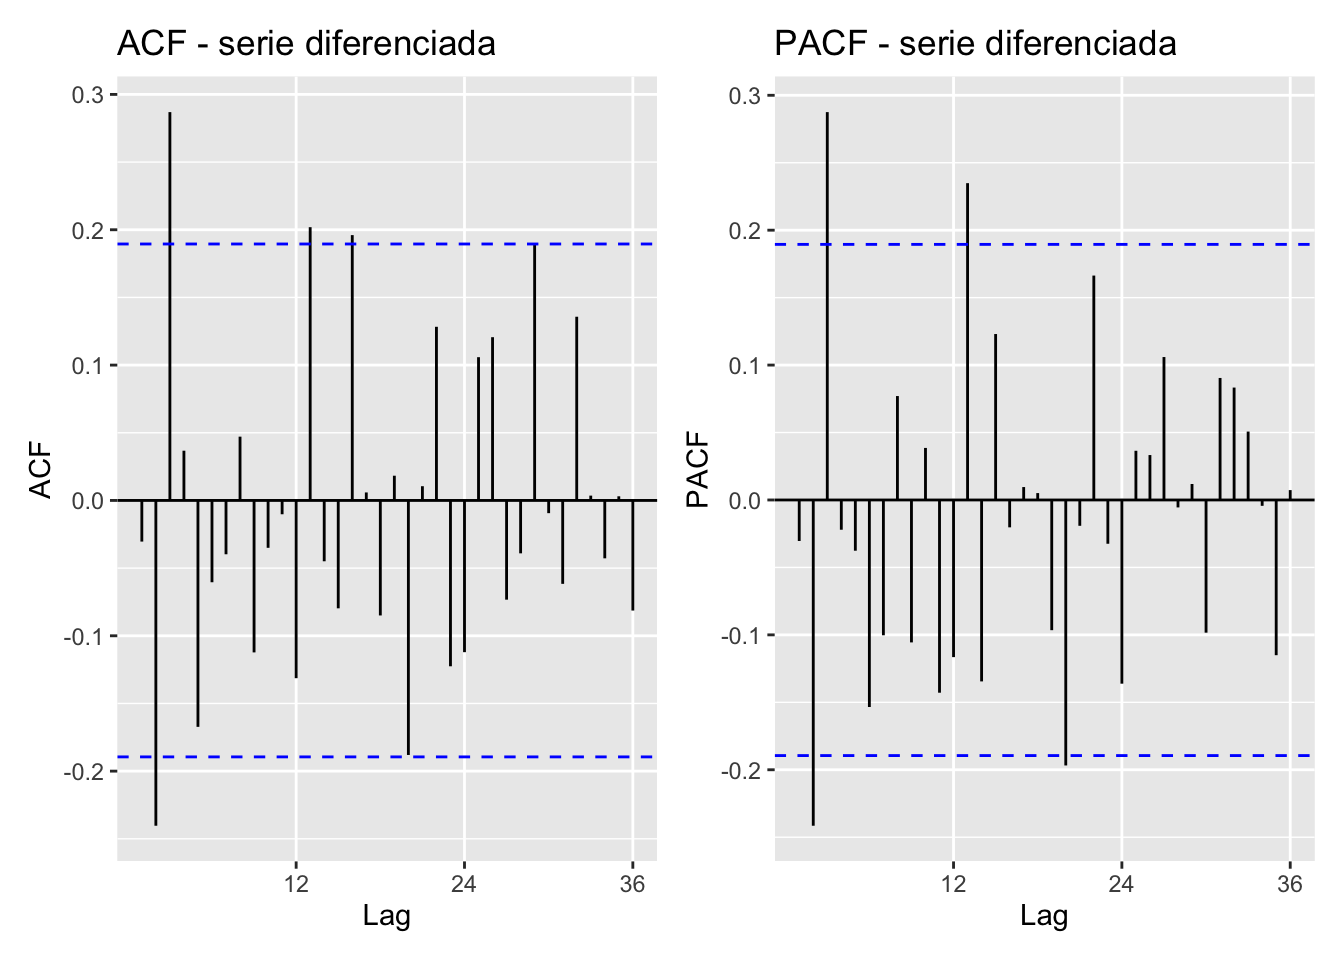
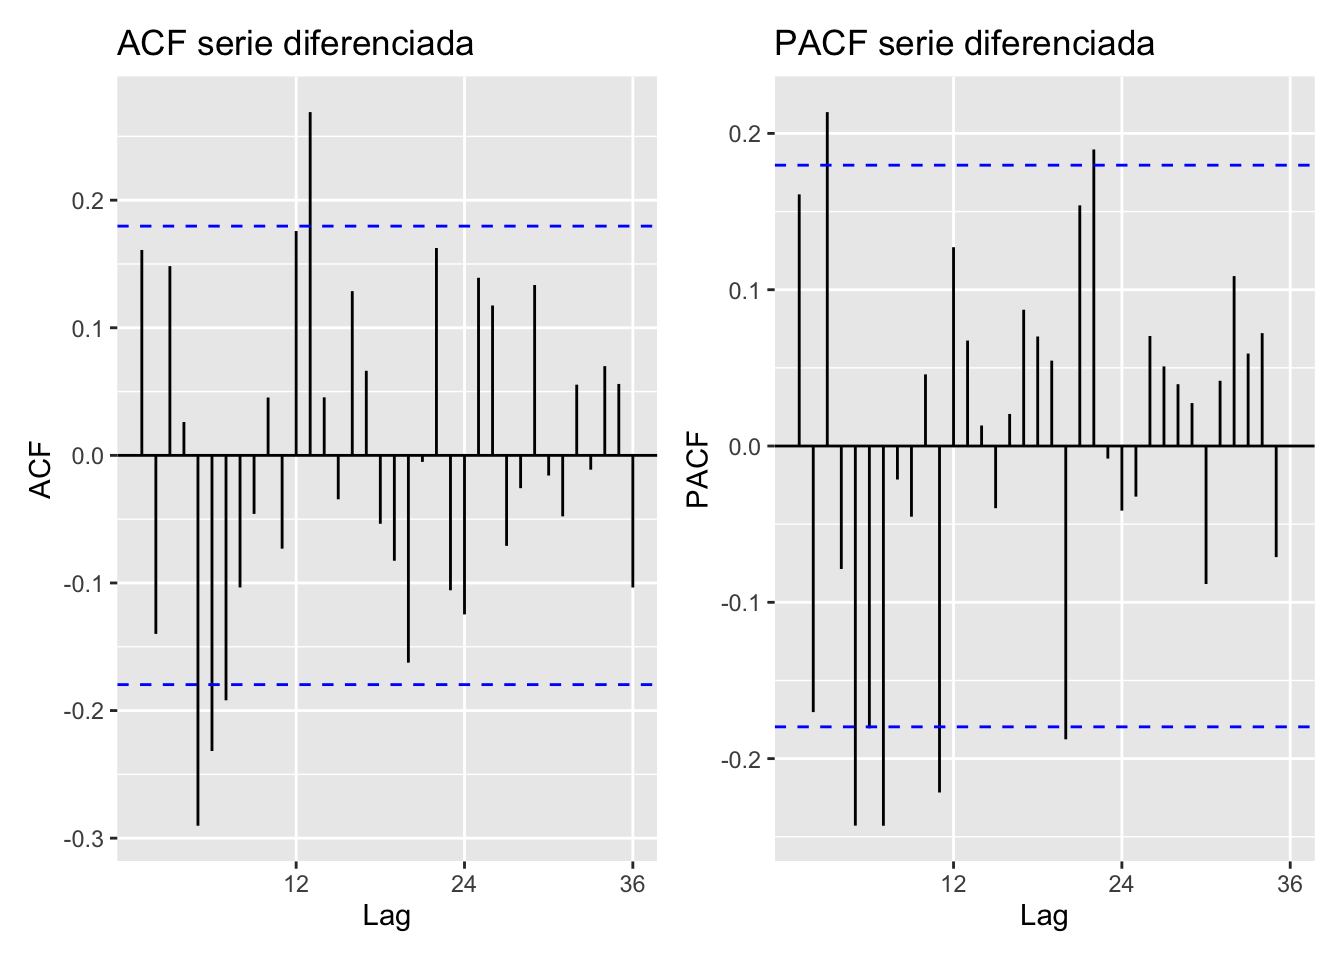
Built site for gh-pages

diff --git a/series_tiempo/box_jenkins.html b/series_tiempo/box_jenkins.html
@@ -198,7 +198,7 @@ window.Quarto = {
   <li><a href="#diferenciación-regular-y-estacional" id="toc-diferenciación-regular-y-estacional" class="nav-link" data-scroll-target="#diferenciación-regular-y-estacional">4.5 Diferenciación regular y estacional</a></li>
   <li><a href="#acfpacf-y-prueba-de-hipótesis-sobre-la-serie-diferenciada" id="toc-acfpacf-y-prueba-de-hipótesis-sobre-la-serie-diferenciada" class="nav-link" data-scroll-target="#acfpacf-y-prueba-de-hipótesis-sobre-la-serie-diferenciada">4.6 ACF/PACF y prueba de hipótesis sobre la serie diferenciada</a></li>
   </ul></li>
-  <li><a href="#modelos-candidatos" id="toc-modelos-candidatos" class="nav-link" data-scroll-target="#modelos-candidatos">5. Modelos candidatos</a>
+  <li><a href="#modelos-candidatos-etapa-2-de-box-jenkins" id="toc-modelos-candidatos-etapa-2-de-box-jenkins" class="nav-link" data-scroll-target="#modelos-candidatos-etapa-2-de-box-jenkins">5. Modelos candidatos (etapa 2 de Box-Jenkins)</a>
   <ul class="collapse">
   <li><a href="#comparación-mediante-diversas-métricas" id="toc-comparación-mediante-diversas-métricas" class="nav-link" data-scroll-target="#comparación-mediante-diversas-métricas">Comparación mediante diversas métricas</a></li>
   </ul></li>
@@ -420,6 +420,7 @@ Figure&nbsp;4: Descomposición multiplicativa
 <h2 class="anchored" data-anchor-id="identificación-etapa-1-de-box-jenkins">4. Identificación (etapa 1 de Box-Jenkins)</h2>
 <section id="acf-y-pacf-de-la-serie-original" class="level3">
 <h3 class="anchored" data-anchor-id="acf-y-pacf-de-la-serie-original">4.1 ACF y PACF de la serie original</h3>
+<p>Como la ACF decrece lento, es un indicio de que será necesario realizar una diferenciación regular. Por el otro lado, la PACF parece mostrar un patrón estacional (forma de campana repetida), sin embargo no es significativo. Esto no quiere decir que no será necesario incluir un componente que modele la parte estacional, solamente aún no tenemos suficiente evidencia.</p>
 <div class="cell">
 <details class="code-fold">
 <summary>Code</summary>
@@ -442,6 +443,7 @@ Figure&nbsp;5: ACF y PACF de la serie original
 </section>
 <section id="pruebas-de-hipótesis-sobre-autocorrelación" class="level3">
 <h3 class="anchored" data-anchor-id="pruebas-de-hipótesis-sobre-autocorrelación">4.2 Pruebas de hipótesis sobre autocorrelación</h3>
+<p>Realizar pruebas de hipótesis para contrastar la cantidad de rezagos no significativos puede ayudar a respaldar nuestra decisión sobre el valor de los parámetros. Por ejemplo, puede no ser claro si la ACF se corta en el rezago 2 o 3, y estas pruebas de hipótesis pueden ayudar a tomar una decisión.</p>
 <div class="cell">
 <details class="code-fold">
 <summary>Code</summary>
@@ -459,7 +461,7 @@ X-squared = 1190.2, df = 24, p-value &lt; 2.2e-16</code></pre>
 </section>
 <section id="transformación-box-cox" class="level3">
 <h3 class="anchored" data-anchor-id="transformación-box-cox">4.4 ¿Transformación Box-Cox?</h3>
-<p>Es posible encontrar un valor óptimo de <span class="math inline">\(\lambda\)</span> para aplicar una transformación Box-Cox con la función <code>BoxCox.lambda()</code> de la paquetería <code>forecast</code>.</p>
+<p>Es posible encontrar un valor óptimo de <span class="math inline">\(\lambda\)</span> para aplicar una transformación Box-Cox con la función <code>BoxCox.lambda()</code> de la paquetería <code>forecast</code>. En este caso, un <span class="math inline">\(\lambda\)</span> cercano a cero sugiere el uso de la transformación logaritmo. Esto puede rreglar de forma aparante algunos problemas de supuestos o estacionaridad sin embargo causará problemas al hacer predicciones (pues las predicciones estarán en escala logarítmica y habrá que “exponenciar” los resultados).</p>
 <div class="cell">
 <details class="code-fold">
 <summary>Code</summary>
@@ -473,6 +475,7 @@ X-squared = 1190.2, df = 24, p-value &lt; 2.2e-16</code></pre>
 </section>
 <section id="diferenciación-regular-y-estacional" class="level3">
 <h3 class="anchored" data-anchor-id="diferenciación-regular-y-estacional">4.5 Diferenciación regular y estacional</h3>
+<p>Hay funciones en R que encuentran el valor de <span class="math inline">\(d\)</span> y <span class="math inline">\(D\)</span> óptimo, en nuestro ejemplo, se recomienda no aplicar diferenciación estacional y solo una diferenciación regular.</p>
 <div class="cell">
 <details class="code-fold">
 <summary>Code</summary>
@@ -485,27 +488,59 @@ X-squared = 1190.2, df = 24, p-value &lt; 2.2e-16</code></pre>
 </div>
 <details class="code-fold">
 <summary>Code</summary>
-<div class="code-copy-outer-scaffold"><div class="sourceCode cell-code" id="cb18"><pre class="sourceCode r code-with-copy"><code class="sourceCode r"><span id="cb18-1"><a href="#cb18-1" aria-hidden="true" tabindex="-1"></a>serie_des  <span class="ot">&lt;-</span> <span class="fu">diff</span>(accidentes_ts, <span class="at">lag =</span> <span class="dv">12</span>)</span>
-<span id="cb18-2"><a href="#cb18-2" aria-hidden="true" tabindex="-1"></a></span>
-<span id="cb18-3"><a href="#cb18-3" aria-hidden="true" tabindex="-1"></a>d_sugerido <span class="ot">&lt;-</span> <span class="fu">ndiffs</span>(serie_des)</span>
-<span id="cb18-4"><a href="#cb18-4" aria-hidden="true" tabindex="-1"></a>d_sugerido</span></code></pre></div><button title="Copy to Clipboard" class="code-copy-button"><i class="bi"></i></button></div>
+<div class="code-copy-outer-scaffold"><div class="sourceCode cell-code" id="cb18"><pre class="sourceCode r code-with-copy"><code class="sourceCode r"><span id="cb18-1"><a href="#cb18-1" aria-hidden="true" tabindex="-1"></a>d_sugerido <span class="ot">&lt;-</span> <span class="fu">ndiffs</span>(accidentes_ts)</span>
+<span id="cb18-2"><a href="#cb18-2" aria-hidden="true" tabindex="-1"></a>d_sugerido</span></code></pre></div><button title="Copy to Clipboard" class="code-copy-button"><i class="bi"></i></button></div>
 </details>
 <div class="cell-output cell-output-stdout">
 <pre><code>[1] 1</code></pre>
 </div>
 <details class="code-fold">
 <summary>Code</summary>
-<div class="code-copy-outer-scaffold"><div class="sourceCode cell-code" id="cb20"><pre class="sourceCode r code-with-copy"><code class="sourceCode r"><span id="cb20-1"><a href="#cb20-1" aria-hidden="true" tabindex="-1"></a>serie_estacionaria <span class="ot">&lt;-</span> <span class="fu">diff</span>(serie_des)</span></code></pre></div><button title="Copy to Clipboard" class="code-copy-button"><i class="bi"></i></button></div>
+<div class="code-copy-outer-scaffold"><div class="sourceCode cell-code" id="cb20"><pre class="sourceCode r code-with-copy"><code class="sourceCode r"><span id="cb20-1"><a href="#cb20-1" aria-hidden="true" tabindex="-1"></a>serie_diferenciada <span class="ot">&lt;-</span> <span class="fu">diff</span>(accidentes_ts)</span></code></pre></div><button title="Copy to Clipboard" class="code-copy-button"><i class="bi"></i></button></div>
 </details>
+</div>
+<p>Luego de realizar una diferenciación regular, la serie aún mantiene una comportamiento heterocedastico, esto sugiere un componente multiplicativo.</p>
+<div class="cell">
+<details class="code-fold">
+<summary>Code</summary>
+<div class="code-copy-outer-scaffold"><div class="sourceCode cell-code" id="cb21"><pre class="sourceCode r code-with-copy"><code class="sourceCode r"><span id="cb21-1"><a href="#cb21-1" aria-hidden="true" tabindex="-1"></a><span class="co"># para no tener problemas con los indices de tiempo</span></span>
+<span id="cb21-2"><a href="#cb21-2" aria-hidden="true" tabindex="-1"></a>serie_diferenciada_df <span class="ot">&lt;-</span> <span class="fu">data.frame</span>(</span>
+<span id="cb21-3"><a href="#cb21-3" aria-hidden="true" tabindex="-1"></a>  <span class="at">fecha =</span> <span class="fu">time</span>(serie_diferenciada),</span>
+<span id="cb21-4"><a href="#cb21-4" aria-hidden="true" tabindex="-1"></a>  <span class="at">accidentes =</span> <span class="fu">as.numeric</span>(serie_diferenciada)</span>
+<span id="cb21-5"><a href="#cb21-5" aria-hidden="true" tabindex="-1"></a>)</span>
+<span id="cb21-6"><a href="#cb21-6" aria-hidden="true" tabindex="-1"></a></span>
+<span id="cb21-7"><a href="#cb21-7" aria-hidden="true" tabindex="-1"></a><span class="fu">ggplot</span>(serie_diferenciada_df, <span class="fu">aes</span>(fecha, accidentes)) <span class="sc">+</span></span>
+<span id="cb21-8"><a href="#cb21-8" aria-hidden="true" tabindex="-1"></a>  <span class="fu">geom_line</span>(<span class="at">color =</span> <span class="st">"steelblue"</span>) <span class="sc">+</span></span>
+<span id="cb21-9"><a href="#cb21-9" aria-hidden="true" tabindex="-1"></a>  <span class="fu">labs</span>(</span>
+<span id="cb21-10"><a href="#cb21-10" aria-hidden="true" tabindex="-1"></a>    <span class="at">x =</span> <span class="st">"Fecha"</span>,</span>
+<span id="cb21-11"><a href="#cb21-11" aria-hidden="true" tabindex="-1"></a>    <span class="at">y =</span> <span class="st">"Costos operativos"</span>,</span>
+<span id="cb21-12"><a href="#cb21-12" aria-hidden="true" tabindex="-1"></a>    <span class="at">title =</span> <span class="st">"Serie diferenciada"</span>,</span>
+<span id="cb21-13"><a href="#cb21-13" aria-hidden="true" tabindex="-1"></a>    <span class="at">subtitle =</span> <span class="st">"d=1"</span></span>
+<span id="cb21-14"><a href="#cb21-14" aria-hidden="true" tabindex="-1"></a>  ) <span class="sc">+</span></span>
+<span id="cb21-15"><a href="#cb21-15" aria-hidden="true" tabindex="-1"></a>  <span class="fu">theme_minimal</span>()</span></code></pre></div><button title="Copy to Clipboard" class="code-copy-button"><i class="bi"></i></button></div>
+</details>
+<div class="cell-output-display">
+<div id="fig-serie-dif" class="quarto-float quarto-figure quarto-figure-center anchored">
+<figure class="quarto-float quarto-float-fig figure">
+<div aria-describedby="fig-serie-dif-caption-0ceaefa1-69ba-4598-a22c-09a6ac19f8ca">
+<img src="box_jenkins_files/figure-html/fig-serie-dif-1.png" class="img-fluid figure-img" width="672">
+</div>
+<figcaption class="quarto-float-caption-bottom quarto-float-caption quarto-float-fig" id="fig-serie-dif-caption-0ceaefa1-69ba-4598-a22c-09a6ac19f8ca">
+Figure&nbsp;6: Costos reportados 2015-2024
+</figcaption>
+</figure>
+</div>
+</div>
 </div>
 </section>
 <section id="acfpacf-y-prueba-de-hipótesis-sobre-la-serie-diferenciada" class="level3">
 <h3 class="anchored" data-anchor-id="acfpacf-y-prueba-de-hipótesis-sobre-la-serie-diferenciada">4.6 ACF/PACF y prueba de hipótesis sobre la serie diferenciada</h3>
+<p>Parece que los patrones de las funciones de autocorrelación no son claros.</p>
 <div class="cell">
 <details class="code-fold">
 <summary>Code</summary>
-<div class="code-copy-outer-scaffold"><div class="sourceCode cell-code" id="cb21"><pre class="sourceCode r code-with-copy"><code class="sourceCode r"><span id="cb21-1"><a href="#cb21-1" aria-hidden="true" tabindex="-1"></a><span class="fu">ggAcf</span>(serie_estacionaria, <span class="at">lag.max =</span> <span class="dv">36</span>) <span class="sc">+</span> <span class="fu">labs</span>(<span class="at">title =</span> <span class="st">"ACF - serie diferenciada"</span>) <span class="sc">+</span></span>
-<span id="cb21-2"><a href="#cb21-2" aria-hidden="true" tabindex="-1"></a>  <span class="fu">ggPacf</span>(serie_estacionaria, <span class="at">lag.max =</span> <span class="dv">36</span>) <span class="sc">+</span> <span class="fu">labs</span>(<span class="at">title =</span> <span class="st">"PACF - serie diferenciada"</span>)</span></code></pre></div><button title="Copy to Clipboard" class="code-copy-button"><i class="bi"></i></button></div>
+<div class="code-copy-outer-scaffold"><div class="sourceCode cell-code" id="cb22"><pre class="sourceCode r code-with-copy"><code class="sourceCode r"><span id="cb22-1"><a href="#cb22-1" aria-hidden="true" tabindex="-1"></a><span class="fu">ggAcf</span>(serie_diferenciada, <span class="at">lag.max =</span> <span class="dv">36</span>) <span class="sc">+</span> <span class="fu">labs</span>(<span class="at">title =</span> <span class="st">"ACF serie diferenciada"</span>) <span class="sc">+</span></span>
+<span id="cb22-2"><a href="#cb22-2" aria-hidden="true" tabindex="-1"></a>  <span class="fu">ggPacf</span>(serie_diferenciada, <span class="at">lag.max =</span> <span class="dv">36</span>) <span class="sc">+</span> <span class="fu">labs</span>(<span class="at">title =</span> <span class="st">"PACF serie diferenciada"</span>)</span></code></pre></div><button title="Copy to Clipboard" class="code-copy-button"><i class="bi"></i></button></div>
 </details>
 <div class="cell-output-display">
 <div id="fig-acf-pacf-diff" class="quarto-float quarto-figure quarto-figure-center anchored">
@@ -514,7 +549,7 @@ X-squared = 1190.2, df = 24, p-value &lt; 2.2e-16</code></pre>
 <img src="box_jenkins_files/figure-html/fig-acf-pacf-diff-1.png" class="img-fluid figure-img" width="672">
 </div>
 <figcaption class="quarto-float-caption-bottom quarto-float-caption quarto-float-fig" id="fig-acf-pacf-diff-caption-0ceaefa1-69ba-4598-a22c-09a6ac19f8ca">
-Figure&nbsp;6: ACF y PACF tras diferenciar
+Figure&nbsp;7: ACF y PACF tras diferenciar
 </figcaption>
 </figure>
 </div>
@@ -523,27 +558,40 @@ Figure&nbsp;6: ACF y PACF tras diferenciar
 <div class="cell">
 <details class="code-fold">
 <summary>Code</summary>
-<div class="code-copy-outer-scaffold"><div class="sourceCode cell-code" id="cb22"><pre class="sourceCode r code-with-copy"><code class="sourceCode r"><span id="cb22-1"><a href="#cb22-1" aria-hidden="true" tabindex="-1"></a><span class="fu">Box.test</span>(serie_estacionaria, <span class="at">lag =</span> <span class="dv">24</span>, <span class="at">type =</span> <span class="st">"Ljung-Box"</span>)</span></code></pre></div><button title="Copy to Clipboard" class="code-copy-button"><i class="bi"></i></button></div>
+<div class="code-copy-outer-scaffold"><div class="sourceCode cell-code" id="cb23"><pre class="sourceCode r code-with-copy"><code class="sourceCode r"><span id="cb23-1"><a href="#cb23-1" aria-hidden="true" tabindex="-1"></a><span class="fu">Box.test</span>(serie_diferenciada, <span class="at">lag =</span> <span class="dv">24</span>, <span class="at">type =</span> <span class="st">"Ljung-Box"</span>)</span></code></pre></div><button title="Copy to Clipboard" class="code-copy-button"><i class="bi"></i></button></div>
 </details>
 <div class="cell-output cell-output-stdout">
 <pre><code>
     Box-Ljung test
 
-data:  serie_estacionaria
-X-squared = 46.65, df = 24, p-value = 0.003695</code></pre>
+data:  serie_diferenciada
+X-squared = 63.817, df = 24, p-value = 1.812e-05</code></pre>
 </div>
 </div>
-<p>Sigue habiendo autocorrelación significativa tras diferenciar, esto es un indicio de que aún queda estructura ARMA por capturar, y los rezagos significativos de la ACF/PACF orientan los órdenes candidatos de la siguiente sección.</p>
 </section>
 </section>
-<section id="modelos-candidatos" class="level2">
-<h2 class="anchored" data-anchor-id="modelos-candidatos">5. Modelos candidatos</h2>
+<section id="modelos-candidatos-etapa-2-de-box-jenkins" class="level2">
+<h2 class="anchored" data-anchor-id="modelos-candidatos-etapa-2-de-box-jenkins">5. Modelos candidatos (etapa 2 de Box-Jenkins)</h2>
 <div class="cell">
 <details class="code-fold">
 <summary>Code</summary>
-<div class="code-copy-outer-scaffold"><div class="sourceCode cell-code" id="cb24"><pre class="sourceCode r code-with-copy"><code class="sourceCode r"><span id="cb24-1"><a href="#cb24-1" aria-hidden="true" tabindex="-1"></a><span class="co">#auto.arima(serie_estacionaria)</span></span>
-<span id="cb24-2"><a href="#cb24-2" aria-hidden="true" tabindex="-1"></a></span>
-<span id="cb24-3"><a href="#cb24-3" aria-hidden="true" tabindex="-1"></a>mod1<span class="ot">&lt;-</span> <span class="fu">Arima</span>(serie_estacionaria, <span class="at">order =</span> <span class="fu">c</span>(<span class="dv">3</span>,<span class="dv">0</span>,<span class="dv">0</span>), <span class="at">seasonal =</span> <span class="fu">c</span>(<span class="dv">1</span>,<span class="dv">0</span>,<span class="dv">1</span>))</span></code></pre></div><button title="Copy to Clipboard" class="code-copy-button"><i class="bi"></i></button></div>
+<div class="code-copy-outer-scaffold"><div class="sourceCode cell-code" id="cb25"><pre class="sourceCode r code-with-copy"><code class="sourceCode r"><span id="cb25-1"><a href="#cb25-1" aria-hidden="true" tabindex="-1"></a><span class="fu">auto.arima</span>(serie_diferenciada)</span></code></pre></div><button title="Copy to Clipboard" class="code-copy-button"><i class="bi"></i></button></div>
+</details>
+<div class="cell-output cell-output-stdout">
+<pre><code>Series: serie_diferenciada 
+ARIMA(2,0,2)(0,0,1)[12] with zero mean 
+
+Coefficients:
+          ar1      ar2     ma1     ma2    sma1
+      -1.4496  -0.7382  1.7002  0.9138  0.3955
+s.e.   0.1095   0.1025  0.0744  0.0806  0.0982
+
+sigma^2 = 7.26e+09:  log likelihood = -1518.6
+AIC=3049.19   AICc=3049.94   BIC=3065.87</code></pre>
+</div>
+<details class="code-fold">
+<summary>Code</summary>
+<div class="code-copy-outer-scaffold"><div class="sourceCode cell-code" id="cb27"><pre class="sourceCode r code-with-copy"><code class="sourceCode r"><span id="cb27-1"><a href="#cb27-1" aria-hidden="true" tabindex="-1"></a>mod1<span class="ot">&lt;-</span> <span class="fu">Arima</span>(serie_diferenciada, <span class="at">order =</span> <span class="fu">c</span>(<span class="dv">2</span>,<span class="dv">0</span>,<span class="dv">2</span>), <span class="at">seasonal =</span> <span class="fu">c</span>(<span class="dv">0</span>,<span class="dv">0</span>,<span class="dv">1</span>))</span></code></pre></div><button title="Copy to Clipboard" class="code-copy-button"><i class="bi"></i></button></div>
 </details>
 </div>
 <section id="comparación-mediante-diversas-métricas" class="level3">
@@ -558,16 +606,16 @@ X-squared = 46.65, df = 24, p-value = 0.003695</code></pre>
 <div class="cell">
 <details class="code-fold">
 <summary>Code</summary>
-<div class="code-copy-outer-scaffold"><div class="sourceCode cell-code" id="cb25"><pre class="sourceCode r code-with-copy"><code class="sourceCode r"><span id="cb25-1"><a href="#cb25-1" aria-hidden="true" tabindex="-1"></a><span class="fu">checkresiduals</span>(mod1)</span></code></pre></div><button title="Copy to Clipboard" class="code-copy-button"><i class="bi"></i></button></div>
+<div class="code-copy-outer-scaffold"><div class="sourceCode cell-code" id="cb28"><pre class="sourceCode r code-with-copy"><code class="sourceCode r"><span id="cb28-1"><a href="#cb28-1" aria-hidden="true" tabindex="-1"></a><span class="fu">checkresiduals</span>(mod1)</span></code></pre></div><button title="Copy to Clipboard" class="code-copy-button"><i class="bi"></i></button></div>
 </details>
 <div class="cell-output cell-output-stdout">
 <pre><code>
     Ljung-Box test
 
-data:  Residuals from ARIMA(3,0,0)(1,0,1)[12] with non-zero mean
-Q* = 27.679, df = 16, p-value = 0.03453
+data:  Residuals from ARIMA(2,0,2)(0,0,1)[12] with non-zero mean
+Q* = 32.498, df = 19, p-value = 0.02745
 
-Model df: 5.   Total lags used: 21</code></pre>
+Model df: 5.   Total lags used: 24</code></pre>
 </div>
 <div class="cell-output-display">
 <div id="fig-diagnostico" class="quarto-float quarto-figure quarto-figure-center anchored">
@@ -576,7 +624,7 @@ Model df: 5.   Total lags used: 21</code></pre>
 <img src="box_jenkins_files/figure-html/fig-diagnostico-1.png" class="img-fluid figure-img" width="672">
 </div>
 <figcaption class="quarto-float-caption-bottom quarto-float-caption quarto-float-fig" id="fig-diagnostico-caption-0ceaefa1-69ba-4598-a22c-09a6ac19f8ca">
-Figure&nbsp;7: Diagnóstico de residuos del modelo
+Figure&nbsp;8: Diagnóstico de residuos del modelo
 </figcaption>
 </figure>
 </div>
@@ -588,12 +636,12 @@ Figure&nbsp;7: Diagnóstico de residuos del modelo
 <div class="cell">
 <details class="code-fold">
 <summary>Code</summary>
-<div class="code-copy-outer-scaffold"><div class="sourceCode cell-code" id="cb27"><pre class="sourceCode r code-with-copy"><code class="sourceCode r"><span id="cb27-1"><a href="#cb27-1" aria-hidden="true" tabindex="-1"></a>pronostico_final <span class="ot">&lt;-</span> <span class="fu">forecast</span>(mod1, <span class="at">h =</span> <span class="dv">12</span>)</span>
-<span id="cb27-2"><a href="#cb27-2" aria-hidden="true" tabindex="-1"></a></span>
-<span id="cb27-3"><a href="#cb27-3" aria-hidden="true" tabindex="-1"></a><span class="fu">autoplot</span>(pronostico_final) <span class="sc">+</span></span>
-<span id="cb27-4"><a href="#cb27-4" aria-hidden="true" tabindex="-1"></a>  <span class="fu">labs</span>(<span class="at">x =</span> <span class="st">"Fecha"</span>, <span class="at">y =</span> <span class="st">"Número de accidentes"</span>,</span>
-<span id="cb27-5"><a href="#cb27-5" aria-hidden="true" tabindex="-1"></a>       <span class="at">title =</span> <span class="st">"Pronóstico a 12 meses"</span>) <span class="sc">+</span></span>
-<span id="cb27-6"><a href="#cb27-6" aria-hidden="true" tabindex="-1"></a>  <span class="fu">theme_minimal</span>()</span></code></pre></div><button title="Copy to Clipboard" class="code-copy-button"><i class="bi"></i></button></div>
+<div class="code-copy-outer-scaffold"><div class="sourceCode cell-code" id="cb30"><pre class="sourceCode r code-with-copy"><code class="sourceCode r"><span id="cb30-1"><a href="#cb30-1" aria-hidden="true" tabindex="-1"></a>pronostico_final <span class="ot">&lt;-</span> <span class="fu">forecast</span>(mod1, <span class="at">h =</span> <span class="dv">12</span>)</span>
+<span id="cb30-2"><a href="#cb30-2" aria-hidden="true" tabindex="-1"></a></span>
+<span id="cb30-3"><a href="#cb30-3" aria-hidden="true" tabindex="-1"></a><span class="fu">autoplot</span>(pronostico_final) <span class="sc">+</span></span>
+<span id="cb30-4"><a href="#cb30-4" aria-hidden="true" tabindex="-1"></a>  <span class="fu">labs</span>(<span class="at">x =</span> <span class="st">"Fecha"</span>, <span class="at">y =</span> <span class="st">"Número de accidentes"</span>,</span>
+<span id="cb30-5"><a href="#cb30-5" aria-hidden="true" tabindex="-1"></a>       <span class="at">title =</span> <span class="st">"Pronóstico a 12 meses"</span>) <span class="sc">+</span></span>
+<span id="cb30-6"><a href="#cb30-6" aria-hidden="true" tabindex="-1"></a>  <span class="fu">theme_minimal</span>()</span></code></pre></div><button title="Copy to Clipboard" class="code-copy-button"><i class="bi"></i></button></div>
 </details>
 <div class="cell-output-display">
 <div id="fig-pronostico" class="quarto-float quarto-figure quarto-figure-center anchored">
@@ -602,7 +650,7 @@ Figure&nbsp;7: Diagnóstico de residuos del modelo
 <img src="box_jenkins_files/figure-html/fig-pronostico-1.png" class="img-fluid figure-img" width="672">
 </div>
 <figcaption class="quarto-float-caption-bottom quarto-float-caption quarto-float-fig" id="fig-pronostico-caption-0ceaefa1-69ba-4598-a22c-09a6ac19f8ca">
-Figure&nbsp;8: Pronóstico a 12 meses de accidentes viales
+Figure&nbsp;9: Pronóstico a 12 meses de accidentes viales
 </figcaption>
 </figure>
 </div>

diff --git a/index.html b/index.html
@@ -171,6 +171,9 @@ window.Quarto = {
 </header>
 
 
+<blockquote class="blockquote">
+<p>“All models are wrong, but some are useful”. - George Box</p>
+</blockquote>
 <section id="series-de-tiempo" class="level1">
 <h1>Series de tiempo</h1>
 <table class="caption-top table">
